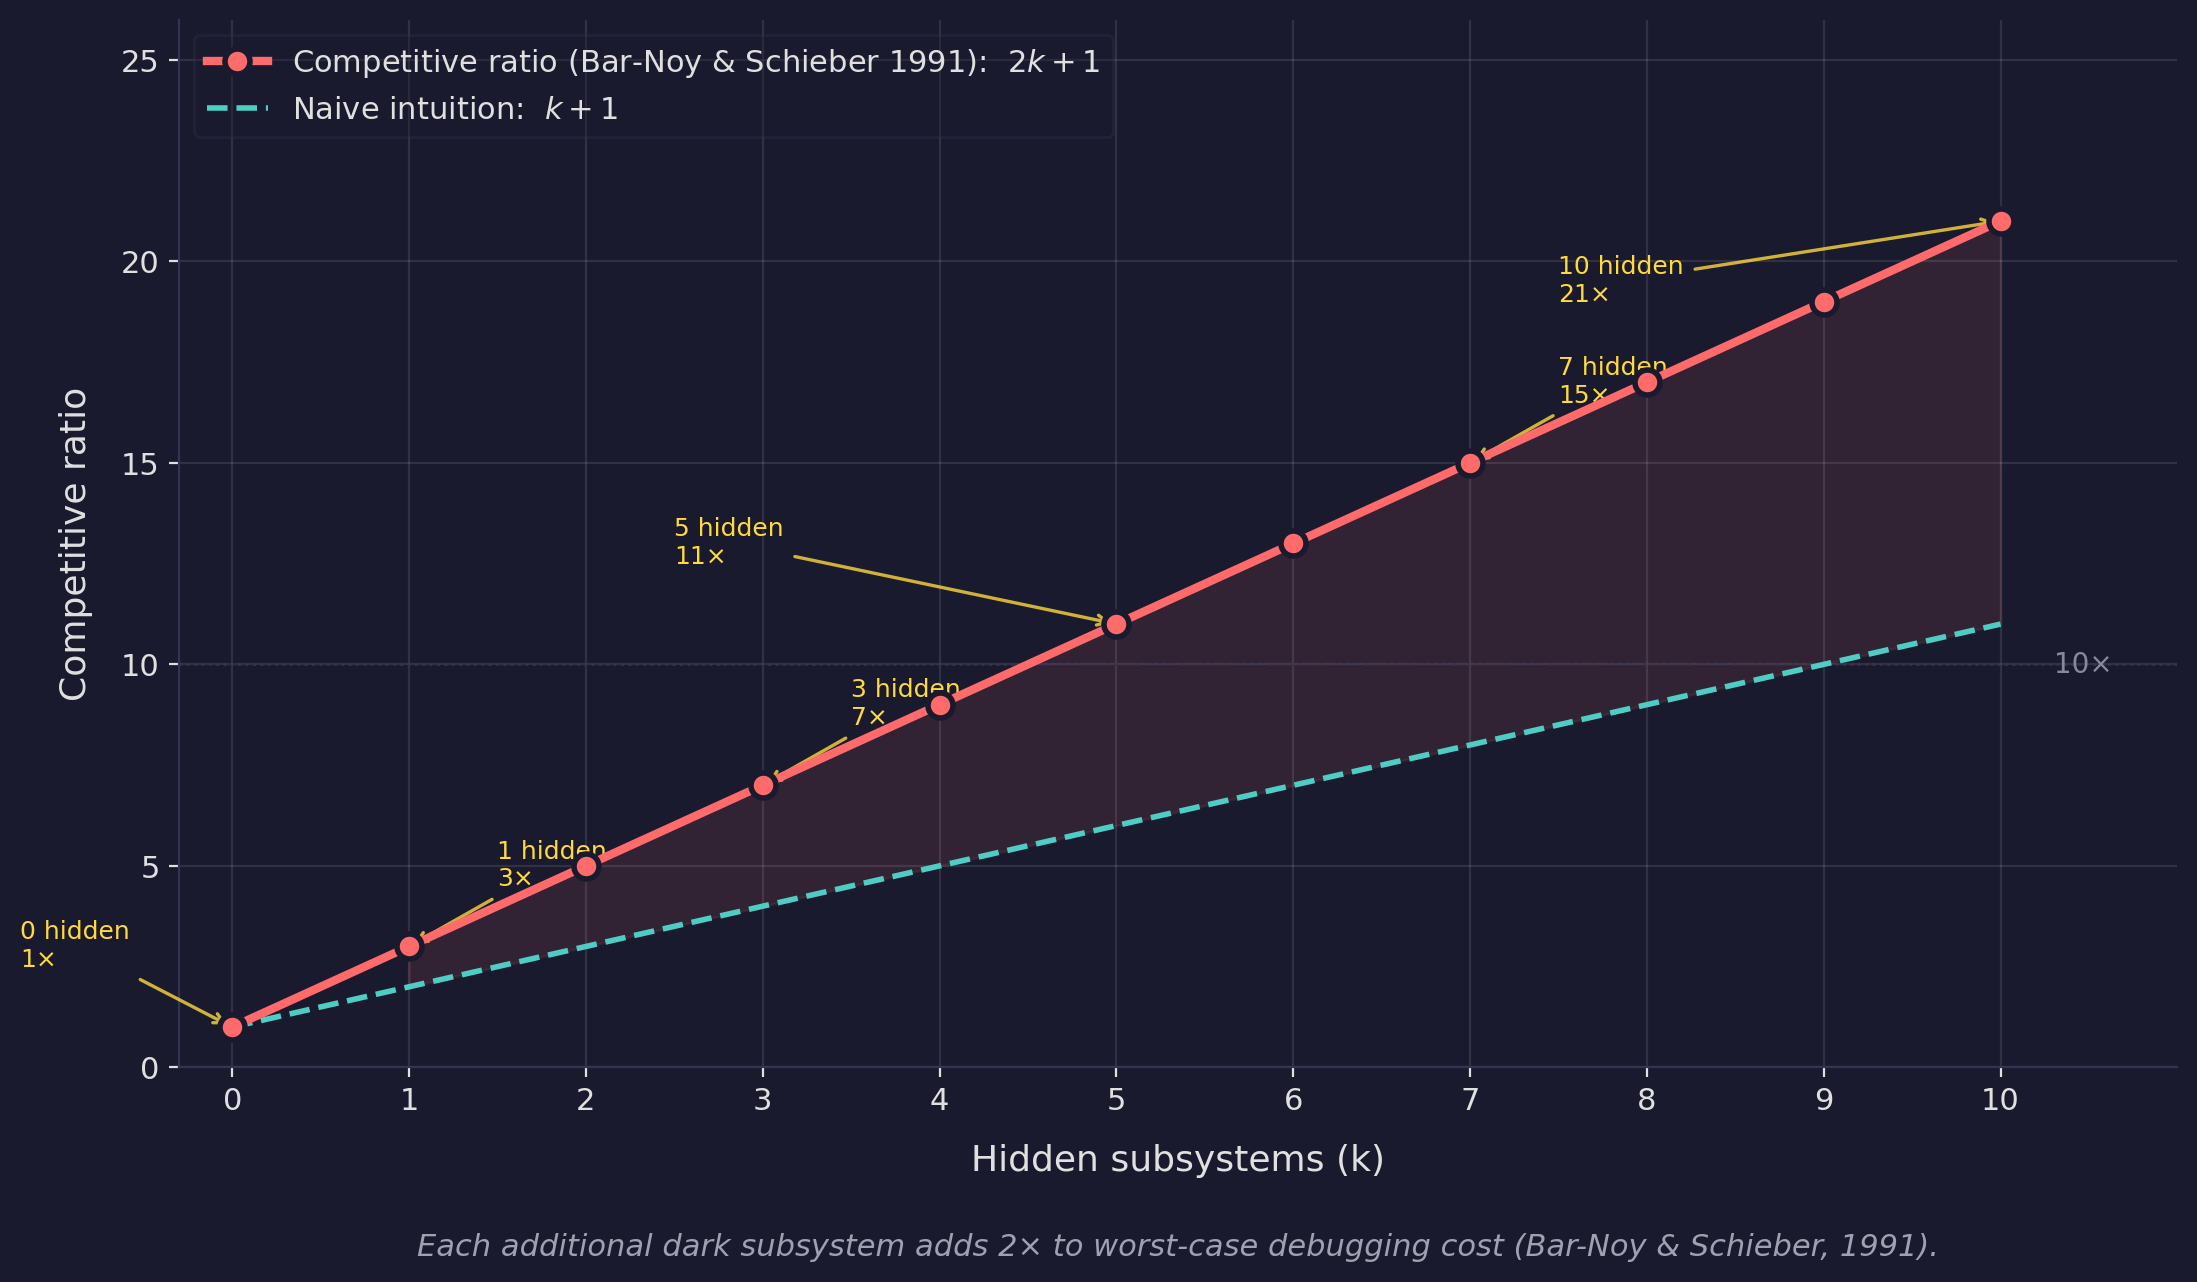
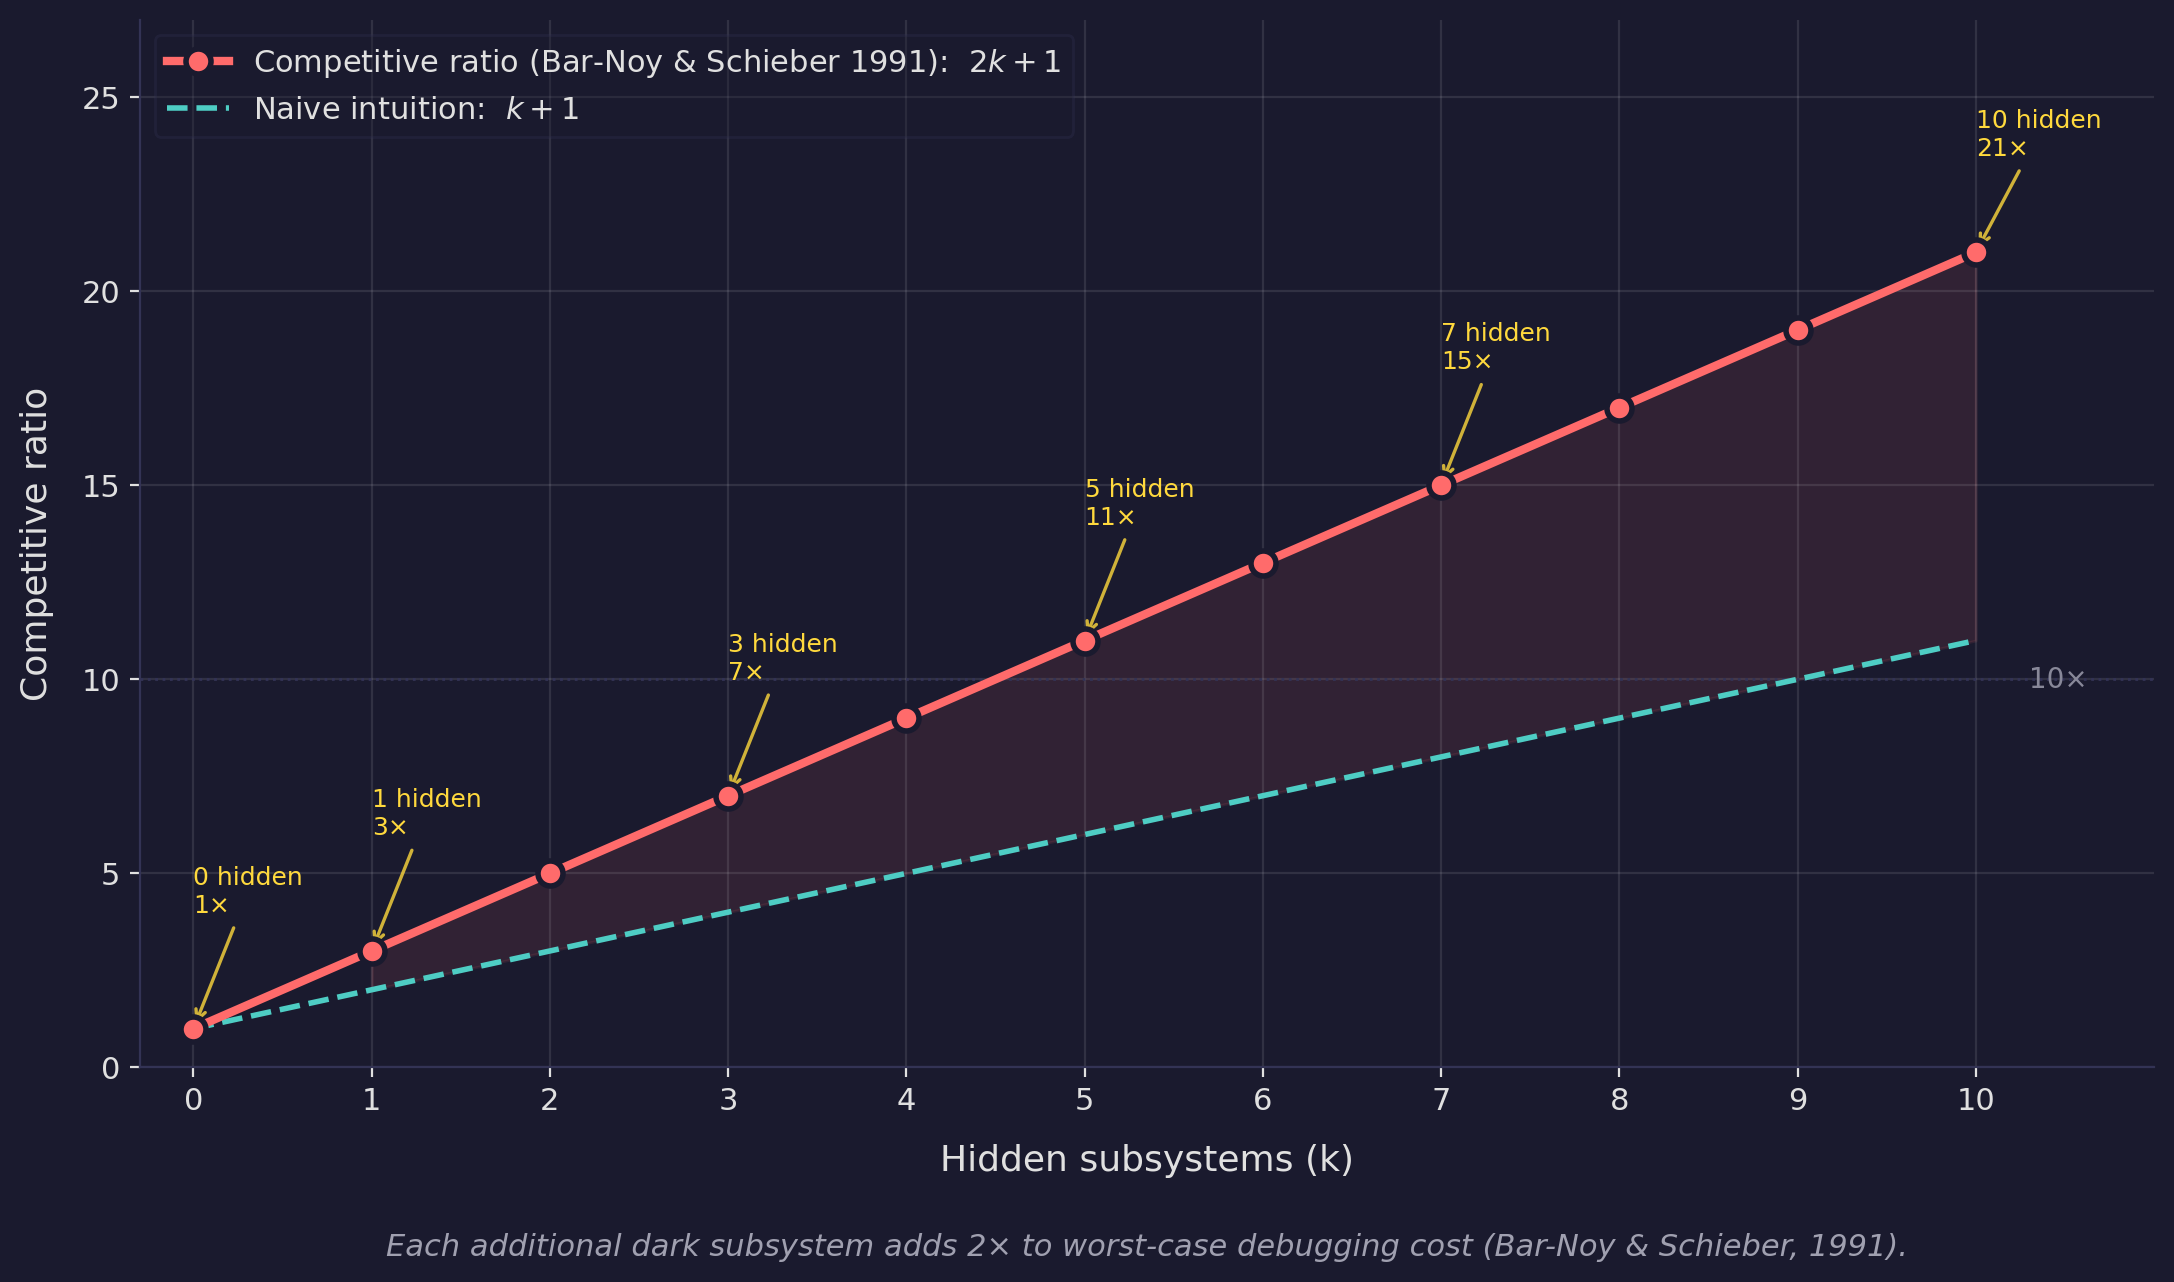
removes external analysis in article and cleansup labels of graph

diff --git a/building-with-ai/03-observability-tax/figures/gen-figures.py b/building-with-ai/03-observability-tax/figures/gen-figures.py
@@ -199,8 +199,8 @@ def draw_competitive_ratio():
         (7,  15, '7 hidden\n15×'),
         (10, 21, '10 hidden\n21×'),
     ]
-    offsets = {0: (-1.2, 1.5), 1: (0.5, 1.5), 3: (0.5, 1.5),
-               5: (-2.5, 1.5), 7: (0.5, 1.5), 10: (-2.5, -2)}
+    offsets = {0: (0, 3.0), 1: (0, 3.0), 3: (0, 3.0),
+               5: (0, 3.0), 7: (0, 3.0), 10: (0, 2.5)}
     for kx, cry, lbl in table_points:
         dx, dy = offsets.get(kx, (0.5, 1.5))
         ax.annotate(lbl, xy=(kx, cry), xytext=(kx + dx, cry + dy),
@@ -212,7 +212,7 @@ def draw_competitive_ratio():
     ax.set_ylabel('Competitive ratio', fontsize=13, labelpad=10)
     ax.set_xticks(k)
     ax.set_xlim(-0.3, 11)
-    ax.set_ylim(0, 26)
+    ax.set_ylim(0, 27)
 
     ax.legend(loc='upper left', fontsize=11, framealpha=0.3,
               edgecolor='#333355')

diff --git a/building-with-ai/03-observability-tax/03-observability-tax.md b/building-with-ai/03-observability-tax/03-observability-tax.md
@@ -159,10 +159,11 @@ less, depending on which 10% is missing.
 
 ## Testing Against Reality
 
-We run six microservices on a production Kubernetes cluster with full distributed
-tracing (OpenTelemetry), centralized logging (Loki), and metrics (Prometheus). Every
-request carries a trace ID. Every service emits structured logs correlated to that
-trace. Every pod reports resource metrics.
+Six of the services running in our production cluster form a closed request chain —
+every call between them is internal, and we instrument the whole chain: distributed
+traces (OpenTelemetry), structured logs (Loki), metrics (Prometheus). Every request
+carries a trace ID through all six hops. Every service emits structured logs
+correlated to that trace. Every pod reports resource metrics.
 
 When something breaks in this environment, the diagnosis pattern is consistent:
 
@@ -337,50 +338,7 @@ someone removes the instrumentation from `BaseExecutionStrategy.cs`, the
 pipeline fails validation on the next scan, and all the files it was
 covering re-emerge as gaps.
 
-Scanning four real running services whose entire business *is*
-observability — the tools we all use to avoid the observability tax — plus
-one internal service with a declared mediator pipeline, gives us a
-comparison that accounts for both per-file and pipeline-level
-instrumentation:
-
-| Codebase | Backend files | Directly instrumented | Pipeline-covered | Dark | k |
-|---|---:|---:|---:|---:|---:|
-| [jaeger](https://github.com/jaegertracing/jaeger) — tracing | 392 | 187 | 0 | 205 | **2** |
-| [loki](https://github.com/grafana/loki) — log aggregation | 1,410 | 696 | 0 | 714 | **2** |
-| *internal .NET service with mediator pipeline* | 1,381 | 185 | 750 | 446 | 3 |
-| [prometheus](https://github.com/prometheus/prometheus) — metrics | 391 | 191 | 15 | 185 | 7 |
-| [grafana](https://github.com/grafana/grafana) — dashboards | 3,442 | 1,746 | 195 | 1,501 | 7 |
-
-Three observations worth naming:
-
-**Jaeger and Loki need no pipeline config.** Their per-file instrumentation
-is already dense enough that the scanner sees coverage everywhere — the
-tracing and logging people dogfood hardest. No declared pipeline, no
-rejection, still `k = 2`.
-
-**Grafana and Prometheus have validated pipelines but they only cover a
-slice.** The `http-middleware` and `http-api` pipelines pass the trust
-check (source coverage 0.44 and 0.65 respectively) and lift a few hundred
-API-layer files. But many `pkg/services/*` subsystems sit outside that
-slice and remain dark — which is an honest signal. Some of those
-subsystems genuinely have lower telemetry density; some may use a
-different pipeline that isn't declared here. A maintainer with more
-context would write a better config.
-
-**The internal service with a declared mediator pipeline scores better
-than Grafana and Prometheus.** Not because the code is intrinsically more
-observable, but because the mediator is a *real* pipeline that instruments
-every request crossing it — 750 handler files get credit, and they earn
-it (the trust check passes at source coverage 0.69). Without the config
-declaration, those 750 files would be flagged as dark and the
-competitive-ratio blowup would look much worse than it actually is. The
-config isn't a free pass; it's documentation of a real architectural
-choice, auditable and falsifiable on every scan.
-
-The CSVs from all five scans are checked into the article repo under
-[`examples/`](examples/), and
-[`.observability.json.example`](examples/.observability.json.example) is a
-template for your own repo. The tool is still a heuristic — regex pattern
+The tool is still a heuristic — regex pattern
 detection plus declared pipelines — and the output is a conversation
 starter, not an audit report. But with a pipeline declaration, the
 conversation can start from the right premise: *what does our
